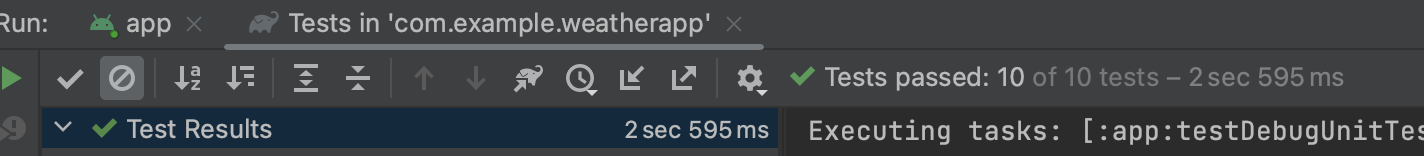
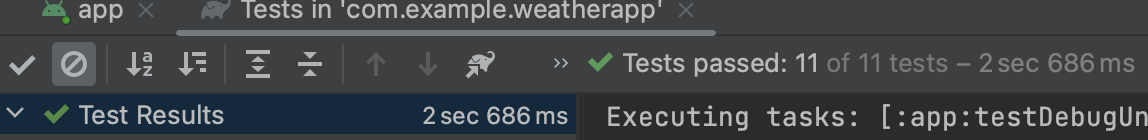
add repository tests

Changed region(s): [[0.0, 0.0, 1.0, 0.9714]]

diff --git a/app/src/test/java/com/example/weatherapp/data/repository/WeatherRepositoryImplTest.kt b/app/src/test/java/com/example/weatherapp/data/repository/WeatherRepositoryImplTest.kt
@@ -1,0 +1,52 @@
+package com.example.weatherapp.data.repository
+
+import com.example.weatherapp.base.BaseViewModelTest
+import com.example.weatherapp.data.remote.WeatherApi
+import com.example.weatherapp.domain.mappers.CurrentAndForecastWeatherMapper
+import io.mockk.coEvery
+import io.mockk.coVerifySequence
+import io.mockk.every
+import io.mockk.impl.annotations.MockK
+import io.mockk.mockk
+import kotlinx.coroutines.test.runTest
+import org.junit.Test
+
+
+class WeatherRepositoryTest : BaseViewModelTest() {
+
+    @MockK
+    private lateinit var api: WeatherApi
+
+    @MockK
+    private lateinit var currentAndForecastWeatherMapper: CurrentAndForecastWeatherMapper
+
+    @Test
+    fun `getWeatherData should call api and mapper`() =
+        runTest {
+            // given
+            val repository = initWithMocks {
+                coEvery { api.getWeatherData(any(), any()) } returns
+                        mockk()
+                every { currentAndForecastWeatherMapper.map(any()) } returns mockk()
+            }
+
+            // when
+            repository.getWeatherData(0.0, 0.0)
+
+            // expect
+            coVerifySequence {
+                api.getWeatherData(0.0, 0.0)
+                currentAndForecastWeatherMapper.map(any())
+            }
+        }
+
+
+    private fun initWithMocks(mockBlock: () -> Unit): WeatherRepositoryImpl {
+        mockBlock()
+        return WeatherRepositoryImpl(
+            api,
+            currentAndForecastWeatherMapper
+        )
+    }
+
+}

diff --git a/README.md b/README.md
@@ -3,7 +3,7 @@ API used:
 1. Open Meteo(https://open-meteo.com/)
 
 Following technologies have been used:
-1. Architecture Components (Compose, Coroutine/Flow, ViewModel, Navigation)
+1. Architecture Components (Compose, Coroutine/Flow, ViewModel)
 2. MVVM, Koin for dependency injection
 3. Kotlin written
 4. SOLID, Clean Architecture
@@ -25,6 +25,7 @@ Layers covered:
 
 ## Screenshots
 [<img src="/screenshots/weather1.png" align="left" width="200" hspace="10" vspace="10">](/screenshots/weather1.png)
+
 
 ### Unit tests
 [<img src="/screenshots/tests.png" align="left" width="400" hspace="30" vspace="10">](/screenshots/tests.png)
